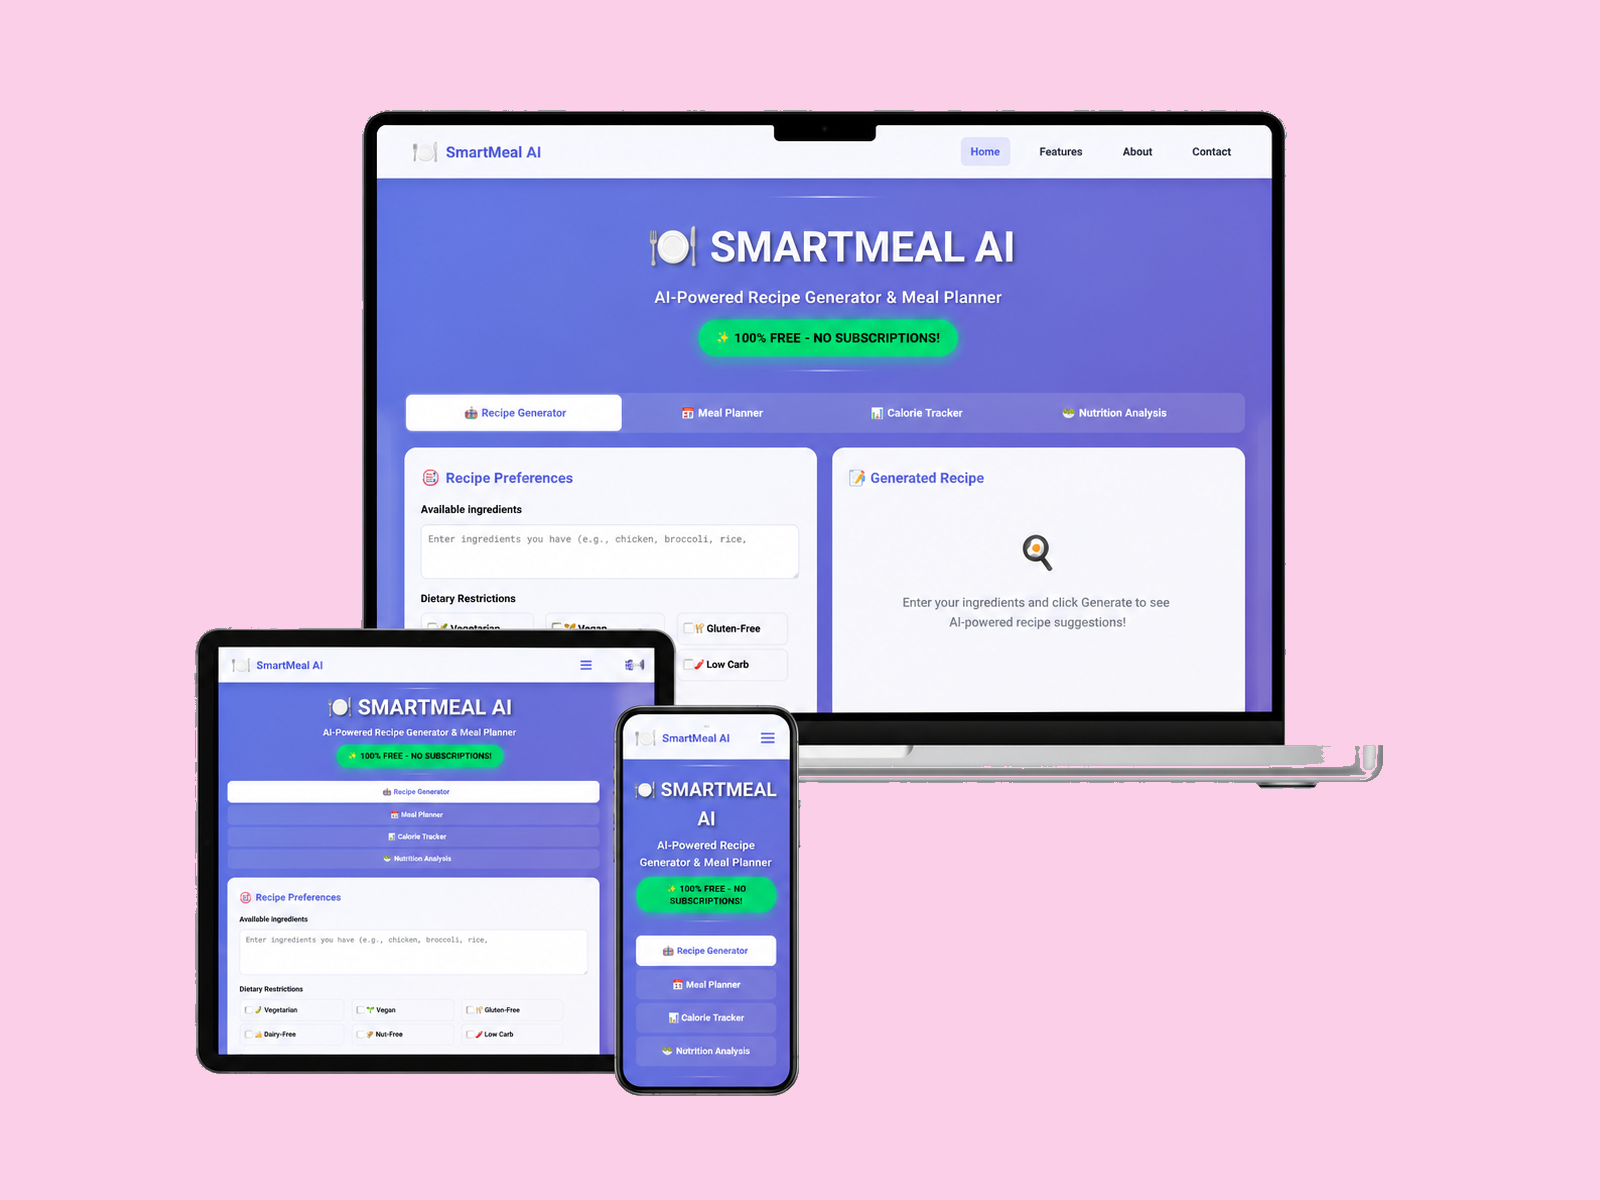
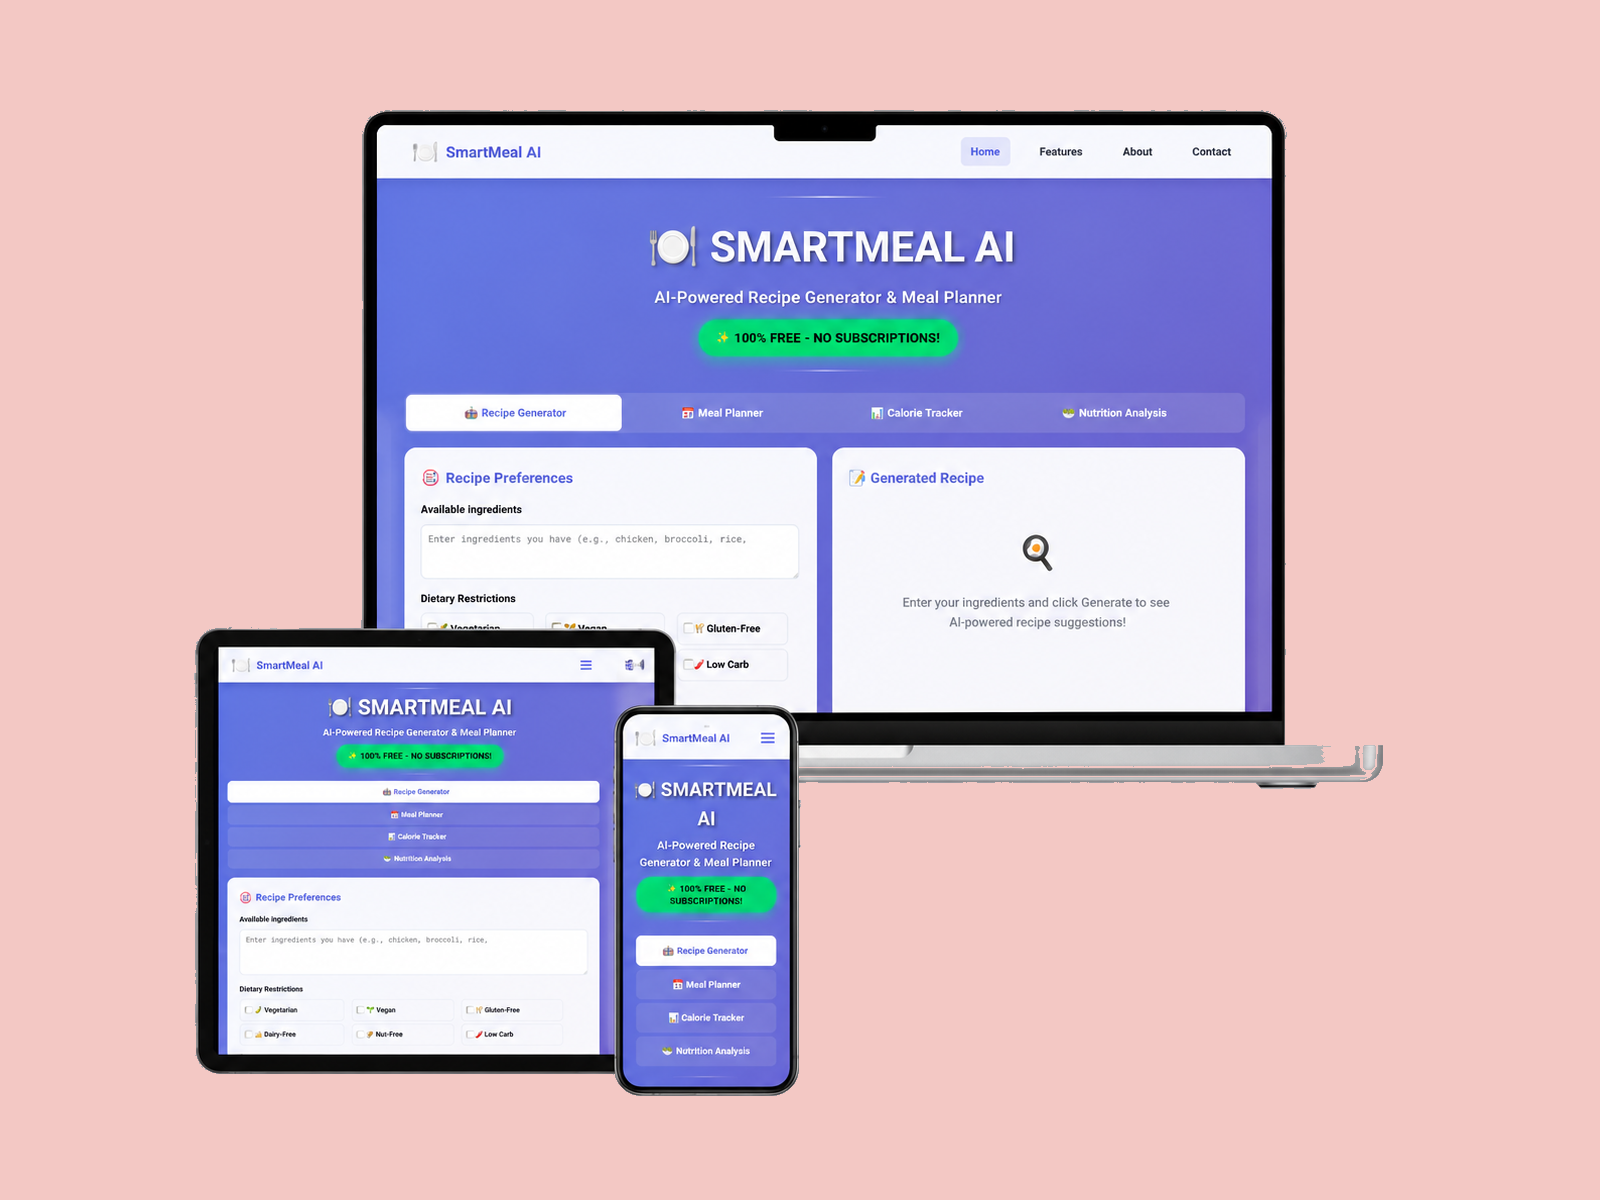
Update Smart Meal AI mockup color to light peach matching food safety system

diff --git a/src/data/portfolioData.ts b/src/data/portfolioData.ts
@@ -144,7 +144,7 @@ export const portfolioData = {
       description:
         "AI-powered food recommendation platform with personalized meal plans, macro tracking, and dynamic grocery budgeting.",
       tags: ["Next.js", "AI", "MongoDB", "TailwindCSS"],
-      image: "/images/smart-meal-v4.png",
+      image: "/images/smart-meal-v5.png",
       accentColor: "#2563FF",
       githubUrl: "https://github.com/manshahussain5",
       liveUrl: "https://smart-meal-ai-jsfc.vercel.app/",

diff --git a/src/components/Projects.tsx b/src/components/Projects.tsx
@@ -8,7 +8,7 @@ import AnimatedHeading from "@/components/AnimatedHeading";
 
 // Canvas background colors matching each mockup canvas exactly
 const projectBgMap: Record<string, string> = {
-  "smart-meal-ai": "#FBCFE8",
+  "smart-meal-ai": "#F3C8C4",
   "my-career": "#A8C6EA",
   "watan-cool": "#A0D8D8",
   "riyadh-water": "#A8D8B9",
